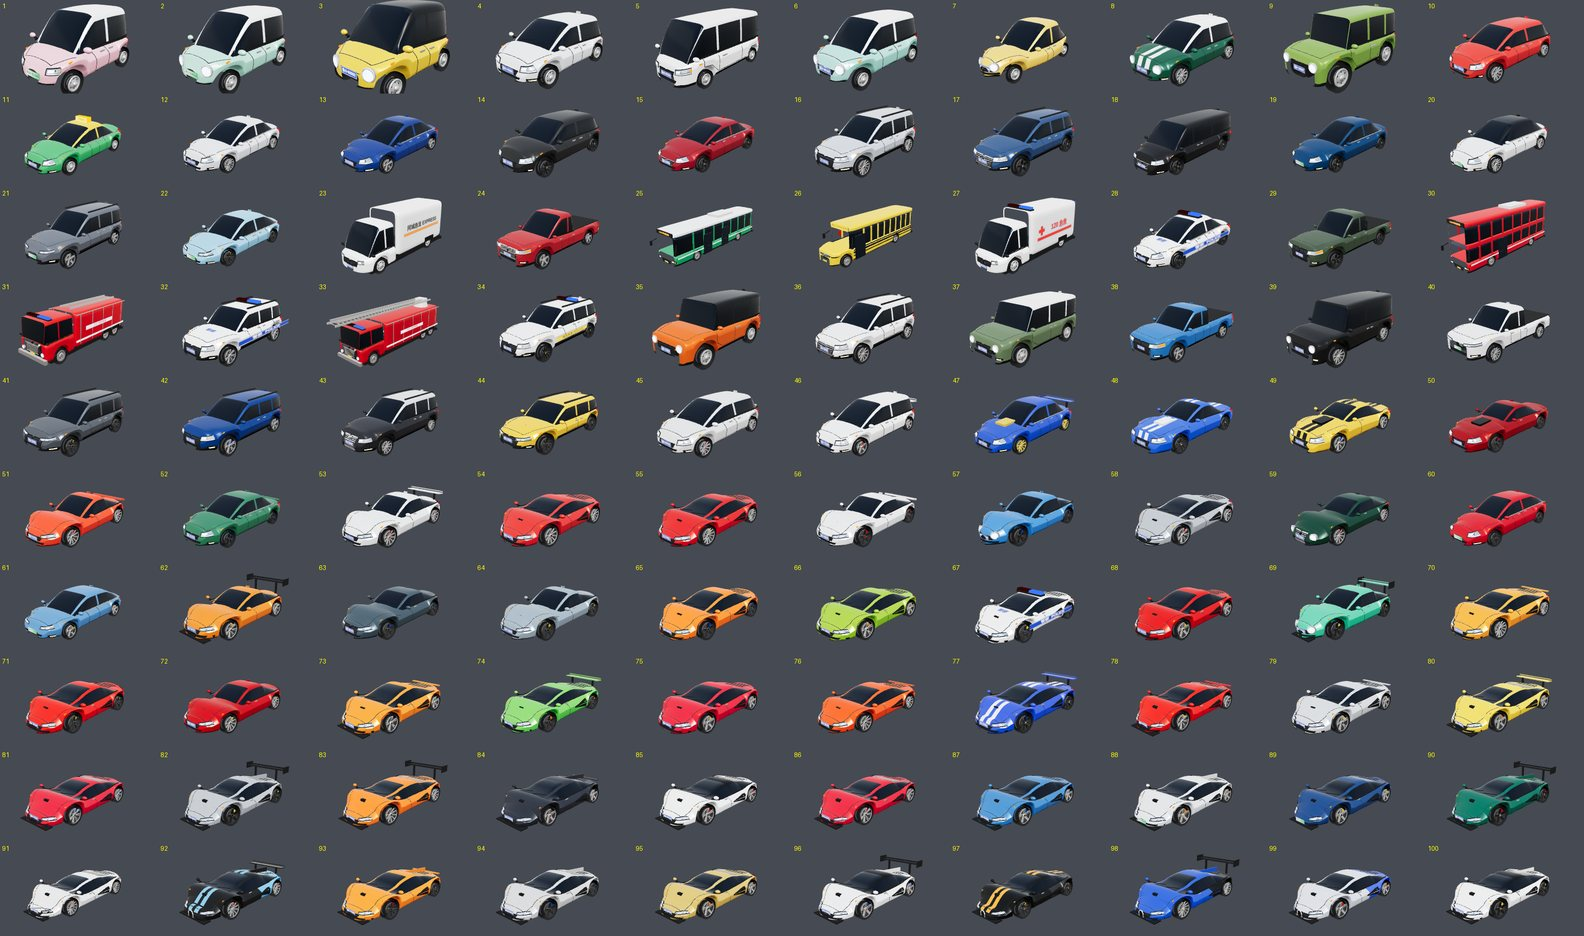
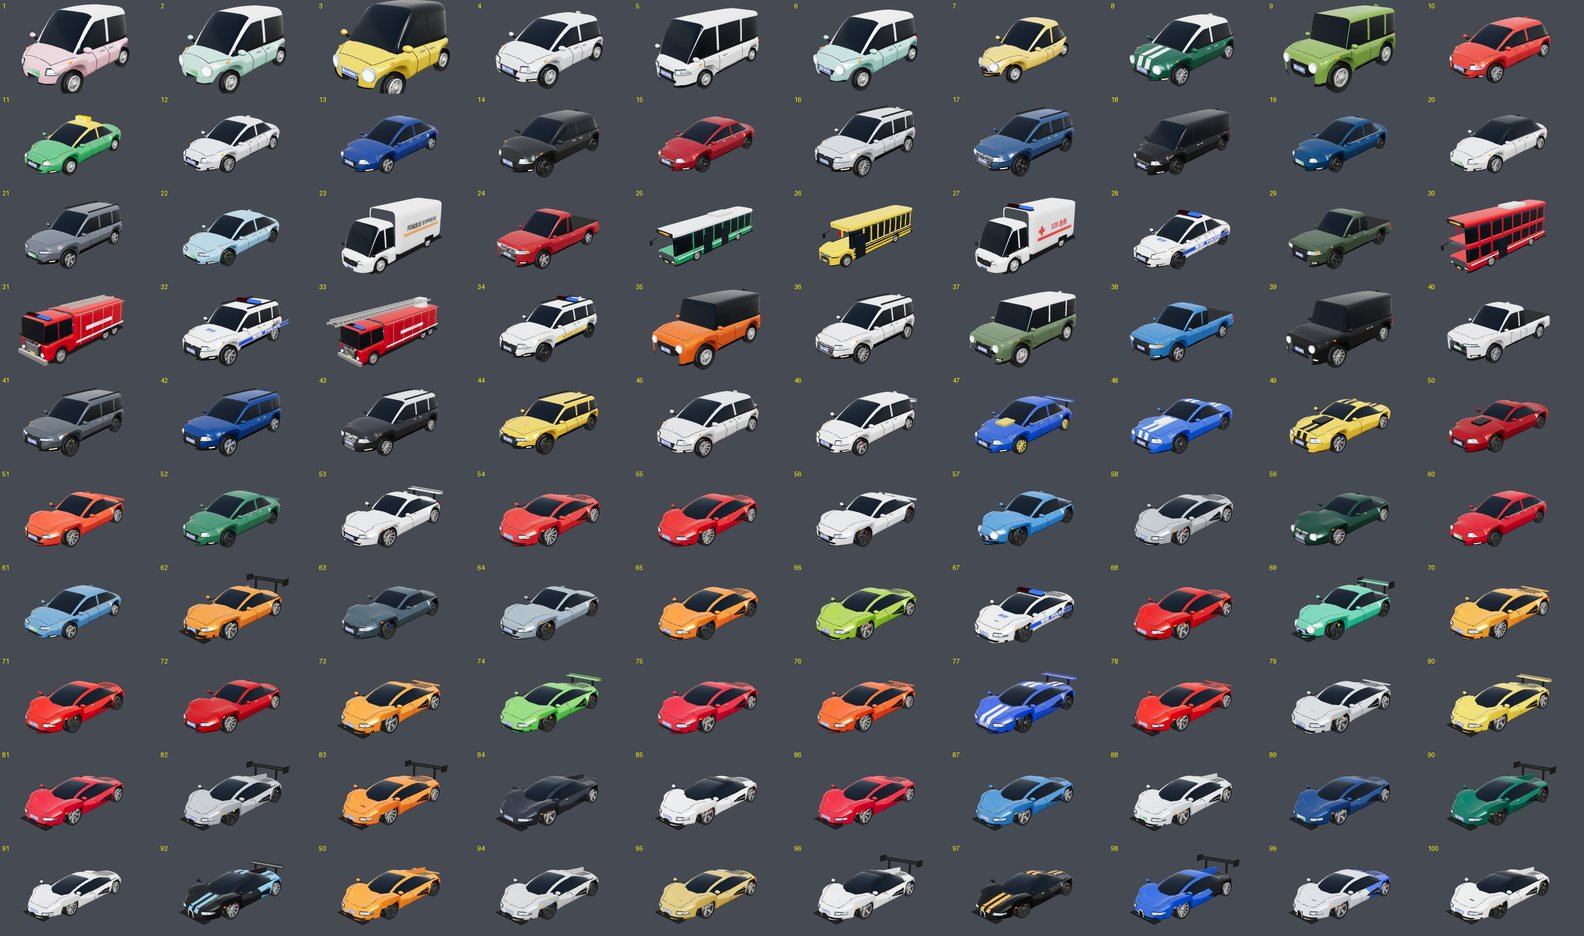
Fix sports car noses: fender crowns instead of a domed hood
- The wheel-arch hump on coupes, muscle cars and mid-engine/hyper cars now
  raises mostly the outer fenders, so the hood sits lower between them and
  the nose forms a smooth wedge; the crown also flows back towards the
  A-pillar
- Headlights on these cars sit high on the fender fronts and sweep upward
- Mid-engine and hyper cars drop the upper grille, which was being projected
  onto the hood as a black box; front-face patches are now clamped to the
  surface height
- Slightly smaller wheel-arch flares; mirrors sit above the fender line

Claude-Session: https://claude.ai/code/session_0173i6Zy8TxhXP9jM78JTnEt

diff --git a/js/carModel.js b/js/carModel.js
@@ -207,6 +207,7 @@
   //    axles 轴位置(z), wR 轮半径, archGap 轮拱间隙, bumpF/bumpR 前后包围上翘
   //    sS/sR 腰线与门槛线的位置（-1 底 ~ 1 顶），gT/gR/gB 车身在顶部、门槛线、底部相对腰线的宽度，
   //    band 车身下沿深色饰板的上边界（不设则没有）
+  //    crown 0~1：轮拱上方的隆起有多少只加在两侧翼子板上（1 = 翼子板高、引擎盖中间低，跑车的造型；0 = 整个截面一起抬高）
   function Shape(P) {
     this.P = P;
     this.hl = P.L / 2;
@@ -235,17 +236,34 @@
     }
     return w;
   };
-  Shape.prototype.y1 = function (u) {
-    var P = this.P, y = curve(P.top, u);
+  // 轮拱上方需要的隆起高度（保证车轮被包住）
+  Shape.prototype.hump = function (u) {
+    var P = this.P, y = curve(P.top, u), y2 = y;
     if (P.axles && P.hump !== false) {
-      // 轮拱上方的翼子板隆起，保证车轮被包住
-      var z = this.zc + u * this.hl, ar = P.wR + (P.archGap || 0.06), need = P.wR + ar + 0.1;
+      // 翼子板造型（crown）的车：隆起更低，并向车厢方向拉长，和腰线连成一体
+      var cr = P.crown || 0, z = this.zc + u * this.hl, ar = P.wR + (P.archGap || 0.06), need = P.wR + ar + lerp(0.1, 0.05, cr);
       for (var i = 0; i < P.axles.length; i++) {
-        var q = Math.abs(z - P.axles[i]) / (ar * 1.6);
-        if (q < 1) y = Math.max(y, lerp(y, need, Math.cos(q * Math.PI / 2)));
+        var dz = z - P.axles[i], inward = P.axles[i] > this.zc ? dz < 0 : dz > 0;
+        var q = Math.abs(dz) / (ar * (inward ? lerp(1.6, 2.6, cr) : lerp(1.6, 2.3, cr)));
+        if (q < 1) y2 = Math.max(y2, lerp(y, need, Math.pow(Math.cos(q * Math.PI / 2), lerp(1, 0.7, cr))));
       }
     }
-    return y;
+    return y2 - y;
+  };
+  // 截面中线处的顶部高度（引擎盖、车顶下沿、后备箱盖的中间）
+  Shape.prototype.y1 = function (u) { return curve(this.P.top, u) + this.hump(u) * (1 - (this.P.crown || 0)); };
+  // 翼子板最高处
+  Shape.prototype.y1max = function (u) { return curve(this.P.top, u) + this.hump(u); };
+  // 翼子板隆起的权重：截面靠外侧、腰线以上
+  function crownW(q0, q1, P) { return smooth(0.3, 0.85, Math.abs(q0)) * smooth(-0.3, P.sS, q1); }
+  // 截面参数 (q0, q1) 对应的点（右半边 q0 > 0）
+  Shape.prototype.at = function (u, q0, q1, cache) {
+    var c = cache || this.sec(u);
+    return [c.w * q0 * this.g(q1), c.yc + c.h * q1 + c.hc * crownW(q0, q1, this.P)];
+  };
+  Shape.prototype.sec = function (u) {
+    var y0 = this.y0(u), y1 = this.y1(u);
+    return { w: this.w(u), y0: y0, y1: y1, yc: (y0 + y1) / 2, h: (y1 - y0) / 2, hc: this.hump(u) * (this.P.crown || 0) };
   };
   Shape.prototype.y0 = function (u) {
     var P = this.P, z = this.z(u);
@@ -257,11 +275,29 @@
     });
     return Math.min(y, this.y1(u) - 0.12);
   };
-  // 在某高度处车身侧面的半宽
+  // 在某高度处车身侧面（外侧）的半宽；高于车身则返回 0
   Shape.prototype.sideX = function (u, y) {
-    var P = this.P, y0 = this.y0(u), y1 = this.y1(u), yc = (y0 + y1) / 2, h = (y1 - y0) / 2;
-    var s = clamp((y - yc) / h, -1, 1), n = s > 0 ? P.nTop : P.nBot;
-    return this.w(u) * Math.pow(Math.max(0, 1 - Math.pow(Math.abs(s), n)), 1 / n) * this.g(s);
+    var P = this.P, c = this.sec(u);
+    if (c.hc < 1e-4) {
+      var s = clamp((y - c.yc) / c.h, -1, 1), n = s > 0 ? P.nTop : P.nBot;
+      return c.w * Math.pow(Math.max(0, 1 - Math.pow(Math.abs(s), n)), 1 / n) * this.g(s);
+    }
+    // 有翼子板隆起时截面上缘不再单调：从底部沿外侧往上找第一个到达 y 的点
+    var self = this;
+    function pt(t) { var sn = Math.sin(t), n2 = sn > 0 ? P.nTop : P.nBot; return self.at(u, spow(Math.cos(t), 2 / n2), spow(sn, 2 / n2), c); }
+    var N = 28, prev = pt(-Math.PI / 2);
+    if (y <= prev[1]) return 0;
+    for (var i = 1; i <= N; i++) {
+      var t = -Math.PI / 2 + i / N * Math.PI, cur = pt(t);
+      if (cur[1] >= y) {
+        var lo = t - Math.PI / N, hi = t;
+        for (var k = 0; k < 10; k++) { var mid = (lo + hi) / 2; if (pt(mid)[1] >= y) hi = mid; else lo = mid; }
+        return pt(hi)[0];
+      }
+      if (cur[1] < prev[1] - 1e-6) return 0; // 已越过翼子板最高点
+      prev = cur;
+    }
+    return 0;
   };
   // 车头（dir=1）/ 车尾（dir=-1）表面：横向 x、高度 y 处对应的 u 和 z
   Shape.prototype.faceU = function (x, y, dir) {
@@ -275,13 +311,14 @@
   Shape.prototype.faceZ = function (x, y, dir) { return this.z(this.faceU(x, y, dir)); };
   // 车身顶面（机盖、后备箱盖）在横向 x 处的高度
   Shape.prototype.topY = function (u, x) {
-    var P = this.P, w = this.w(u), y0 = this.y0(u), y1 = this.y1(u), ax = Math.abs(x), n = P.nTop;
+    var P = this.P, c = this.sec(u), ax = Math.abs(x), n = P.nTop;
     var lo = Math.max(0, P.sS), hi = 1;
     for (var i = 0; i < 16; i++) {
       var mid = (lo + hi) / 2;
-      if (w * Math.pow(Math.max(0, 1 - Math.pow(mid, n)), 1 / n) * this.g(mid) >= ax) lo = mid; else hi = mid;
+      if (c.w * Math.pow(Math.max(0, 1 - Math.pow(mid, n)), 1 / n) * this.g(mid) >= ax) lo = mid; else hi = mid;
     }
-    return (y0 + y1) / 2 + (y1 - y0) / 2 * lo;
+    var q0 = Math.pow(Math.max(0, 1 - Math.pow(lo, n)), 1 / n);
+    return c.yc + c.h * lo + c.hc * crownW(q0, lo, P);
   };
   // 车头/车尾表面在横向 x 处的 z 坐标
   // 数值求解车头/车尾表面在横向 x 处的 z（考虑轮拱外扩等变形）
@@ -355,8 +392,8 @@
     if (split) { us.push(split.u); us.sort(function (a, b) { return a - b; }); }
     var zs = us.map(function (u) { return S.z(u); });
     var geo = loft(zs, function (z, k) {
-      var u = us[k], w = S.w(u), y0 = S.y0(u), y1 = S.y1(u), yc = (y0 + y1) / 2, h = (y1 - y0) / 2;
-      return ring.map(function (q) { return [w * q[0] * S.g(q[1]), yc + h * q[1]]; });
+      var c = S.sec(us[k]);
+      return ring.map(function (q) { var pt = S.at(us[k], Math.abs(q[0]), q[1], c); return [q[0] < 0 ? -pt[0] : pt[0], pt[1]]; });
     }, true);
     // 按位置把面分到不同的颜色：车身、双色车身的后半段、下沿的深色饰板
     var pos = geo.attributes.position.array, nor = geo.attributes.normal.array, idx = geo.index.array, out = {};
@@ -388,7 +425,7 @@
     var ar = P.wR + (P.archGap || 0.06);
     (P.axles || []).forEach(function (za) {
       var u = (za - S.zc) / S.hl;
-      var top = Math.min(S.y1(u) - 0.1, P.wR + ar);
+      var top = Math.min(S.y1(u) - 0.08, P.wR + ar);
       // 内衬下沿不低于轮拱两侧的车身底边，避免从保险杠下面露出来
       var uf = clamp((za + ar * 1.1 - S.zc) / S.hl, -1, 1), ur = clamp((za - ar * 1.1 - S.zc) / S.hl, -1, 1);
       var bot = Math.max(P.wR * 0.4, S.y0(uf) + 0.04, S.y0(ur) + 0.04);
@@ -693,8 +730,9 @@
     na = na || clamp(Math.ceil(span(c, 0, 1, 3, 2) / 0.055), 2, 18);
     nb = nb || clamp(Math.ceil(span(c, 0, 3, 1, 2) / 0.06), 1, 6);
     patch(B, bucket, color, na, nb, function (a, b) {
-      var q = bil(c, a, b), lim = S.sideX(dir * 0.84, q[1]) * 0.985, x = clamp(q[0], -lim, lim);
-      return [x, q[1], S.faceZ(x, q[1], dir)];
+      var q = bil(c, a, b), x0 = q[0], y = Math.min(q[1], S.topY(dir * 0.9, x0) - 0.012);
+      var lim = S.sideX(dir * 0.84, y) * 0.985, x = clamp(x0, -lim, lim);
+      return [x, y, S.faceZ(x, y, dir)];
     }, 0, 0, dir, off);
   }
   // 车身侧面上的四边形，c 的坐标是 [z, y]
@@ -777,6 +815,12 @@
       var hh = slim ? clamp(H * 0.2, 0.06, 0.085) : clamp(H * 0.3, 0.1, 0.16);
       var xi = Wh * (o.lightIn || (slim ? 0.34 : 0.46)), xo = Wh * 0.99;
       var sweep = slim ? hh * 0.9 : hh * 0.3;
+      if ((P.crown || 0) > 0.5 && !o.lightY) {
+        // 贴着车头上沿：内端低、外端沿翼子板往上掠
+        xi = Wh * 0.4; hh = clamp(H * 0.26, 0.075, 0.11);
+        var yIn = S.topY(0.93, xi) - 0.05, yOut = S.topY(0.9, Wh * 0.86) - 0.06;
+        yc = yIn - hh * 0.62; sweep = clamp(yOut - yIn, hh * 0.5, hh * 1.6);
+      }
       // 内端窄、外端宽并上扬，绕到车身转角
       var q = [[s * xi, yc - hh * 0.42], [s * xo, yc - hh * 0.3 + sweep], [s * xo, yc + hh * 0.62 + sweep], [s * xi, yc + hh * 0.38]];
       fq(B, 'matte', '#07080a', S, 1, [[s * (xi - 0.02), q[0][1] - 0.015], [s * xo, q[1][1] - 0.015], [s * xo, q[2][1] + 0.015], [s * (xi - 0.02), q[3][1] + 0.015]], 0.006);
@@ -860,7 +904,7 @@
       }
     }
     // 前牌照
-    if (!o.noPlate) plate(B, S, o, 1, o.plateY || (o.ev || o.noGrille ? yLo + H * 0.46 : Math.max(iy + ih / 2 + 0.085, y - gh / 2 - 0.1)));
+    if (!o.noPlate) plate(B, S, o, 1, o.plateY || (o.ev || o.noGrille ? Math.max(yLo + H * 0.46, iy + ih / 2 + 0.085) : Math.max(iy + ih / 2 + 0.085, y - gh / 2 - 0.1)));
   }
   function rearDetails(B, S, o) {
     var P = S.P, u = -0.95, yLo = S.y0(u), yHi = S.y1(u), H = yHi - yLo;
@@ -893,7 +937,7 @@
     }
   }
   function mirrors(B, S, G, gh, color) {
-    var u = G.gF - 0.05, y = gh.yb(u) + 0.1, x = gh.wb(u), z = S.z(u);
+    var u = G.gF - 0.05, x = gh.wb(u), z = S.z(u), y = Math.max(gh.yb(u) + 0.1, S.topY(u, x) + 0.09);
     for (var s = -1; s <= 1; s += 2) {
       beam(B, 'matte', '#101012', V(s * (x - 0.02), y - 0.05, z + 0.01), V(s * (x + 0.1), y - 0.02, z - 0.01), 0.05, 0.03);
       var pod = new T.SphereGeometry(1, 12, 8);
@@ -1053,11 +1097,11 @@
     mid: { L: 4.55, W: 2.0, clear: 0.1, wR: 0.36, tw: 0.28, ax: [0.58, -0.6], pF: 3.2, pR: 5, nTop: 2.4, nBot: 4,
       top: [[-1, 0.62], [-0.95, 0.86], [-0.6, 0.88], [0.15, 0.8], [0.92, 0.53], [1, 0.36]],
       gh: { gR: -0.56, rR: -0.22, rF: 0.04, gF: 0.5, roof: 1.18, tumble: 0.64, wsCurve: 1.5 }, grip: 1.15,
-      intakes: true, louvers: true, lights: 'slim', exhaust: 2, diffuser: true, intake: true },
+      intakes: true, louvers: true, lights: 'slim', exhaust: 2, diffuser: true, intake: true, noGrille: true },
     hyper: { L: 4.75, W: 2.06, clear: 0.09, wR: 0.37, tw: 0.3, ax: [0.58, -0.6], pF: 3.0, pR: 4.6, nTop: 2.2, nBot: 4,
       top: [[-1, 0.62], [-0.95, 0.8], [-0.6, 0.8], [0.15, 0.72], [0.92, 0.45], [1, 0.3]],
       gh: { gR: -0.6, rR: -0.24, rF: 0.02, gF: 0.52, roof: 1.12, tumble: 0.6, wsCurve: 1.6 }, grip: 1.25,
-      intakes: true, louvers: true, lights: 'slim', exhaust: 3, diffuser: true, fin: true, splitter: true, tails: 'bar', intake: true }
+      intakes: true, louvers: true, lights: 'slim', exhaust: 3, diffuser: true, fin: true, splitter: true, tails: 'bar', intake: true, noGrille: true }
   };
 
   // 乘用车通用生成
@@ -1104,7 +1148,8 @@
     var P = {
       L: L, W: W, clear: o.clear, wR: o.wR, archGap: o.archGap || 0.06, pF: o.pF, pR: o.pR, nTop: o.nTop, nBot: o.nBot,
       top: o.top.map(function (k) { return [k[0], k[1] * (o.sH || 1)]; }), bumpF: o.bumpF, bumpR: o.bumpR,
-      bulge: o.bulge !== undefined ? o.bulge : ({ mid: 0.07, hyper: 0.08, coupe: 0.05, muscle: 0.045, offroad: 0.03 }[car.type] || 0.025),
+      bulge: o.bulge !== undefined ? o.bulge : ({ mid: 0.05, hyper: 0.055, coupe: 0.04, muscle: 0.035, offroad: 0.03 }[car.type] || 0.025),
+      crown: o.crown !== undefined ? o.crown : ({ mid: 0.72, hyper: 0.78, coupe: 0.6, muscle: 0.45 }[car.type] || 0),
       axles: o.ax.map(function (a) { return a * hl; })
     };
     // 截面：硬派车型接近方盒子，收放小；跑车腰线低、上半部收得多
